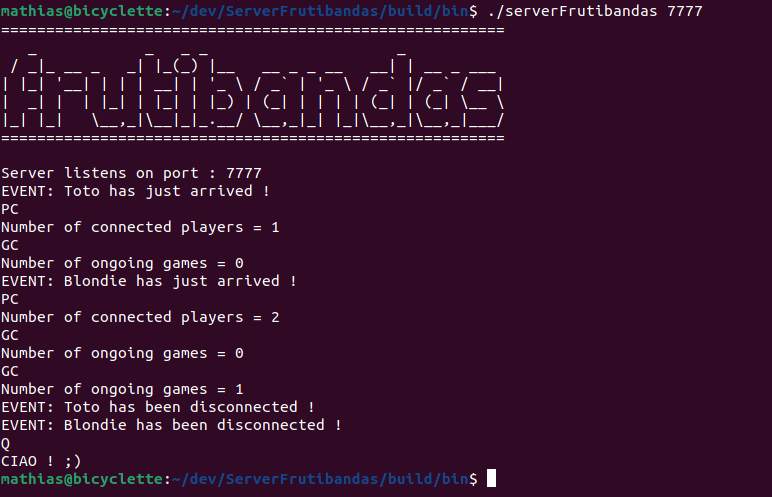
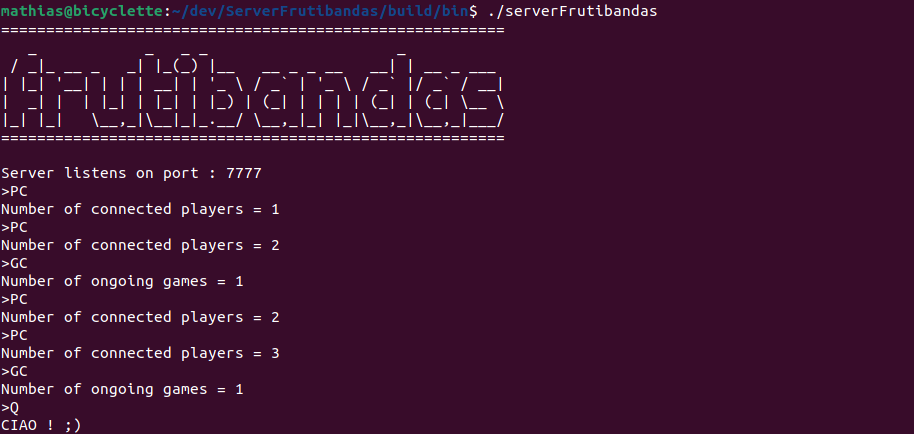
readme

Changed region(s): [[0.0, 0.1198, 0.6528, 1.0], [0.0, 0.0, 0.9016, 0.0899]]

diff --git a/src/main.cpp b/src/main.cpp
@@ -19,6 +19,7 @@ void commands()
 	bool check_cmd = true;
 	while(check_cmd)
 	{
+		std::cout << ">";
 		std::getline(std::cin, cmd);
 		if(cmd == "Q") // close server
 		{
@@ -85,7 +86,6 @@ void message_processing(int tid)
 		else if (message[0] == 'n' && message[1] == 'n')
 		{
 			player->m_name = message.substr(3);
-			std::cout << "EVENT: " << player->m_name << " has just arrived !" << std::endl;
 		}
 		else if (message[0] == 'p' && message[1] == 'p')
 		{
@@ -242,6 +242,10 @@ int main(int argc, char* argv[])
 	welcome();
 
 	// set server port
+	if(argc == 1)
+	{
+		std::cout << "Server listens on port : " << 7777 << std::endl;
+	}
 	if(argc == 2)
 	{
 		std::string port_str = argv[1];

diff --git a/src/network_server.cpp b/src/network_server.cpp
@@ -84,7 +84,6 @@ void NetworkServer::run()
 					ENetAddress peer_address = m_event.peer->address;
 					if (player_address.host == peer_address.host && player_address.port == peer_address.port)
 					{
-						std::cout << "EVENT: " << m_player[i]->m_name << " has been disconnected !" << std::endl;
 						if (p->m_in_game)
 						{
 							std::string dc("dc");
